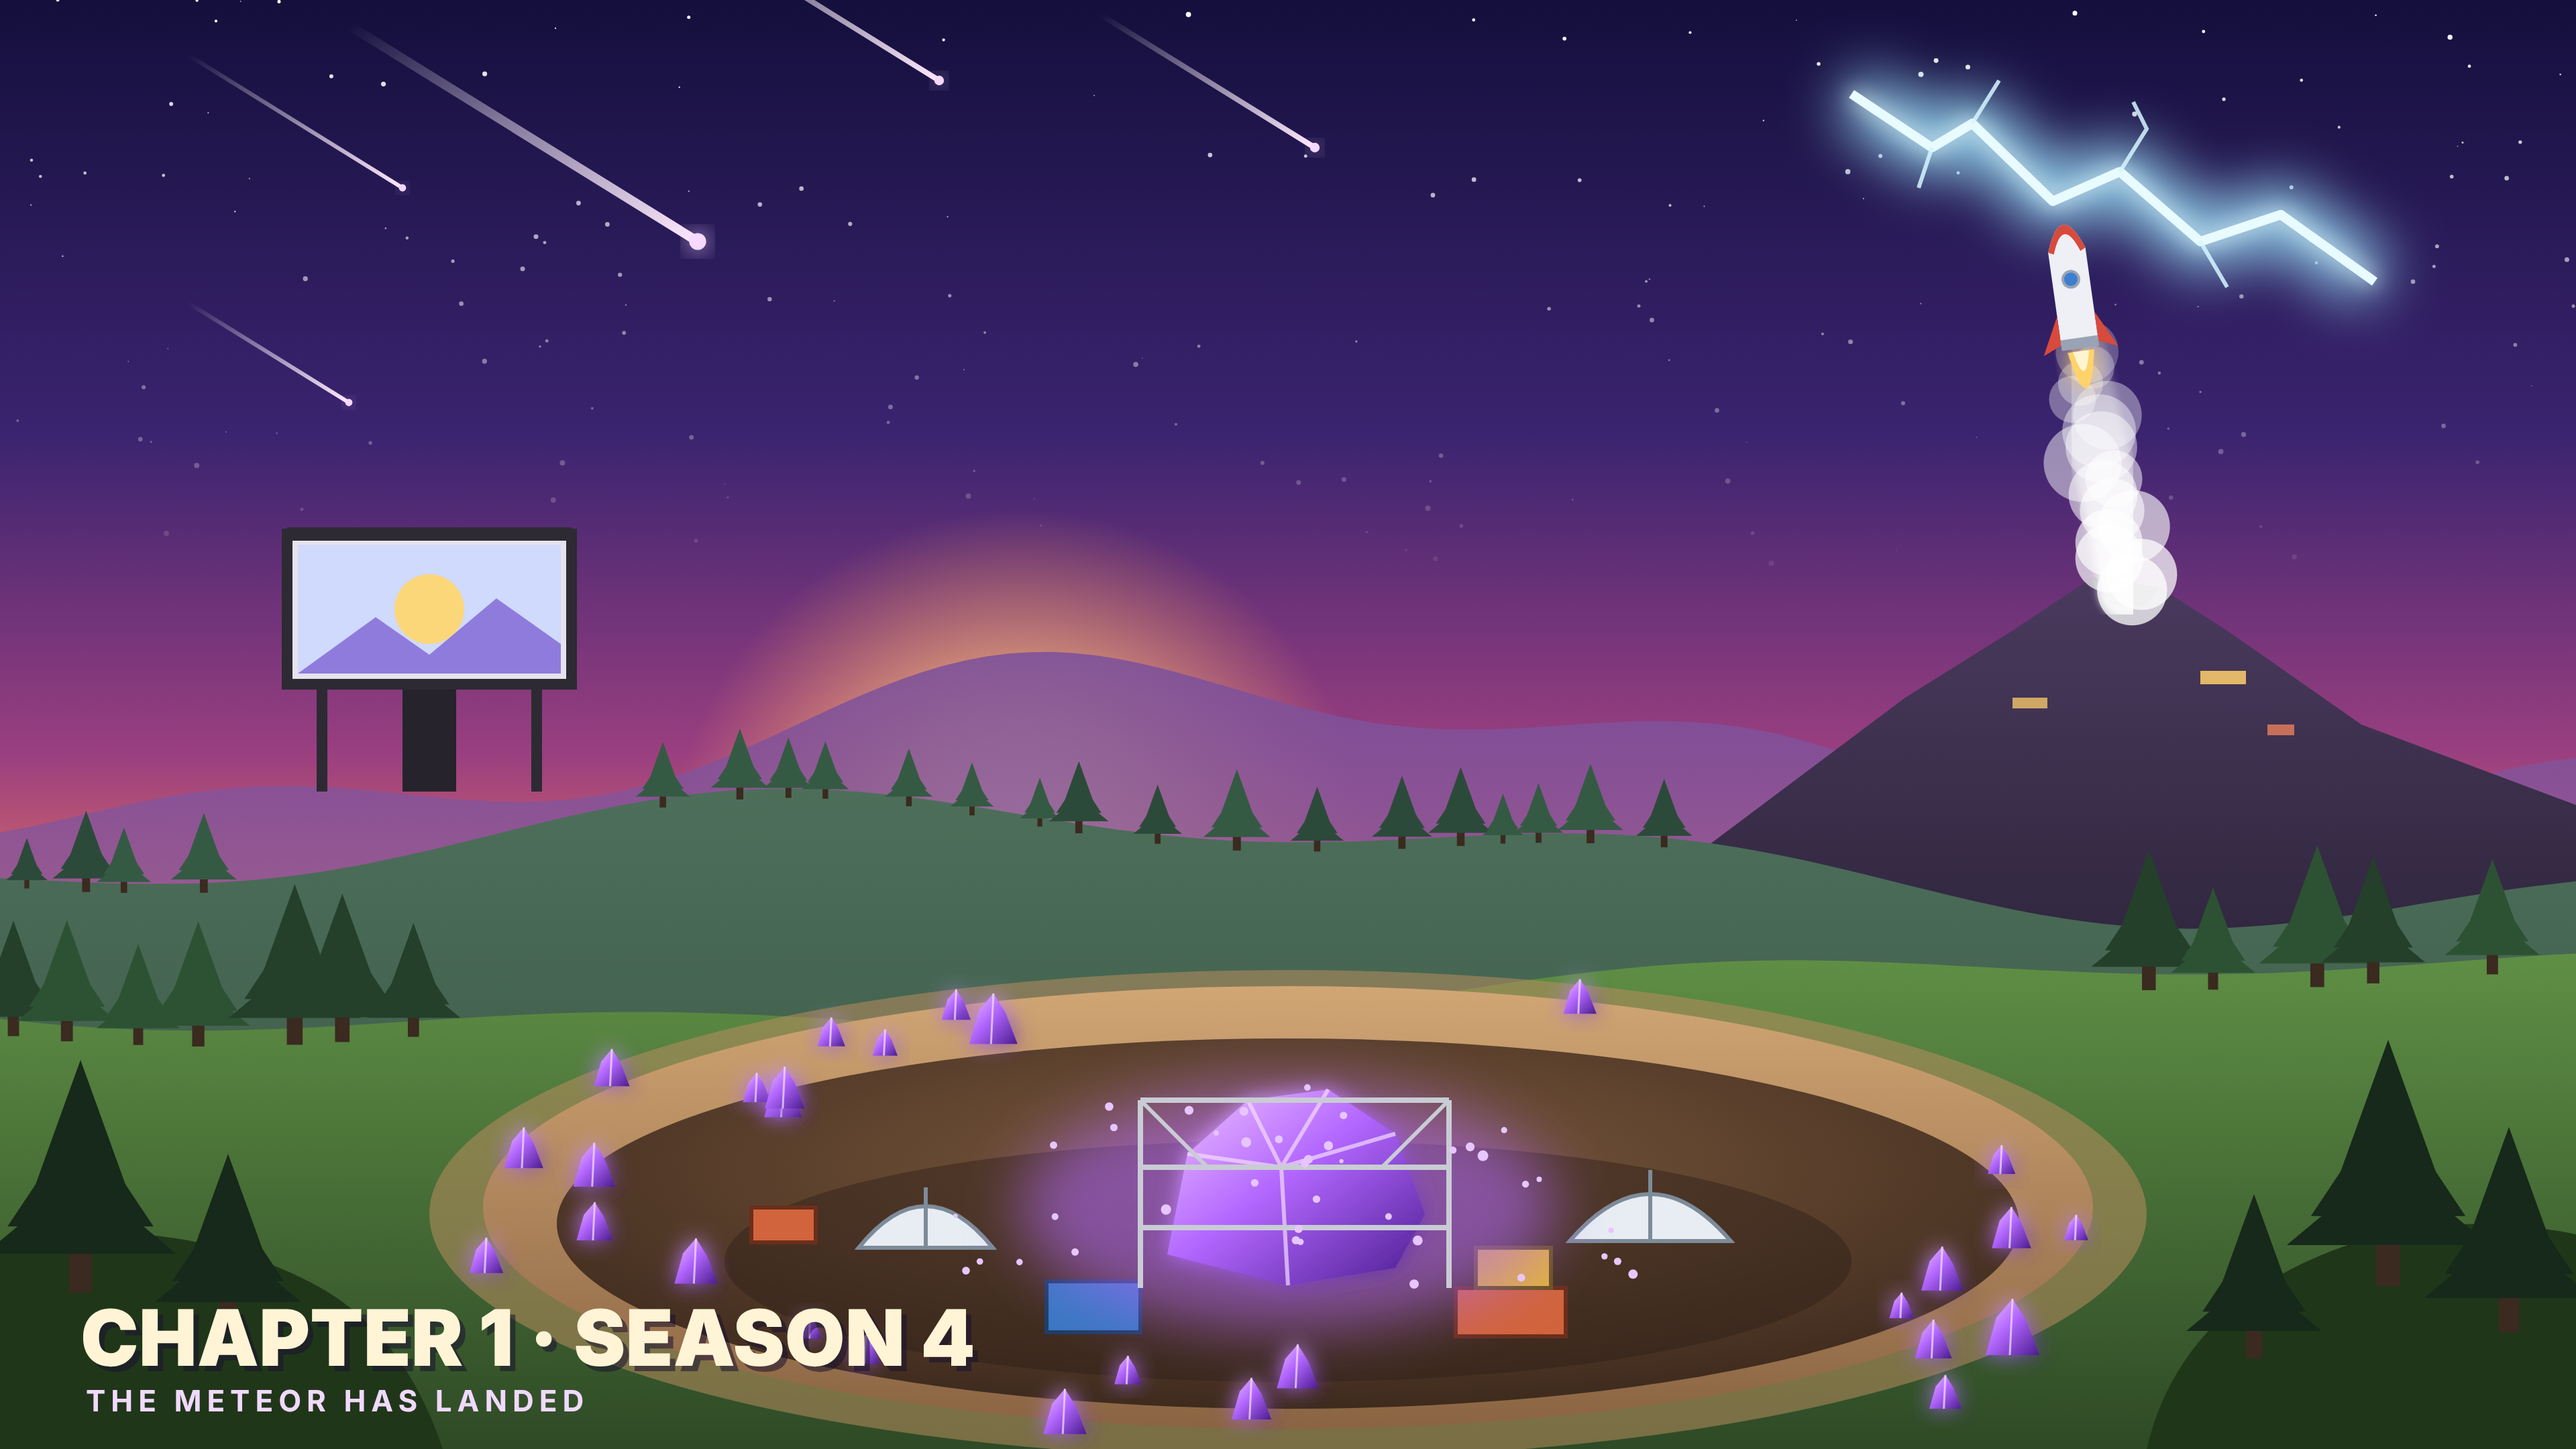
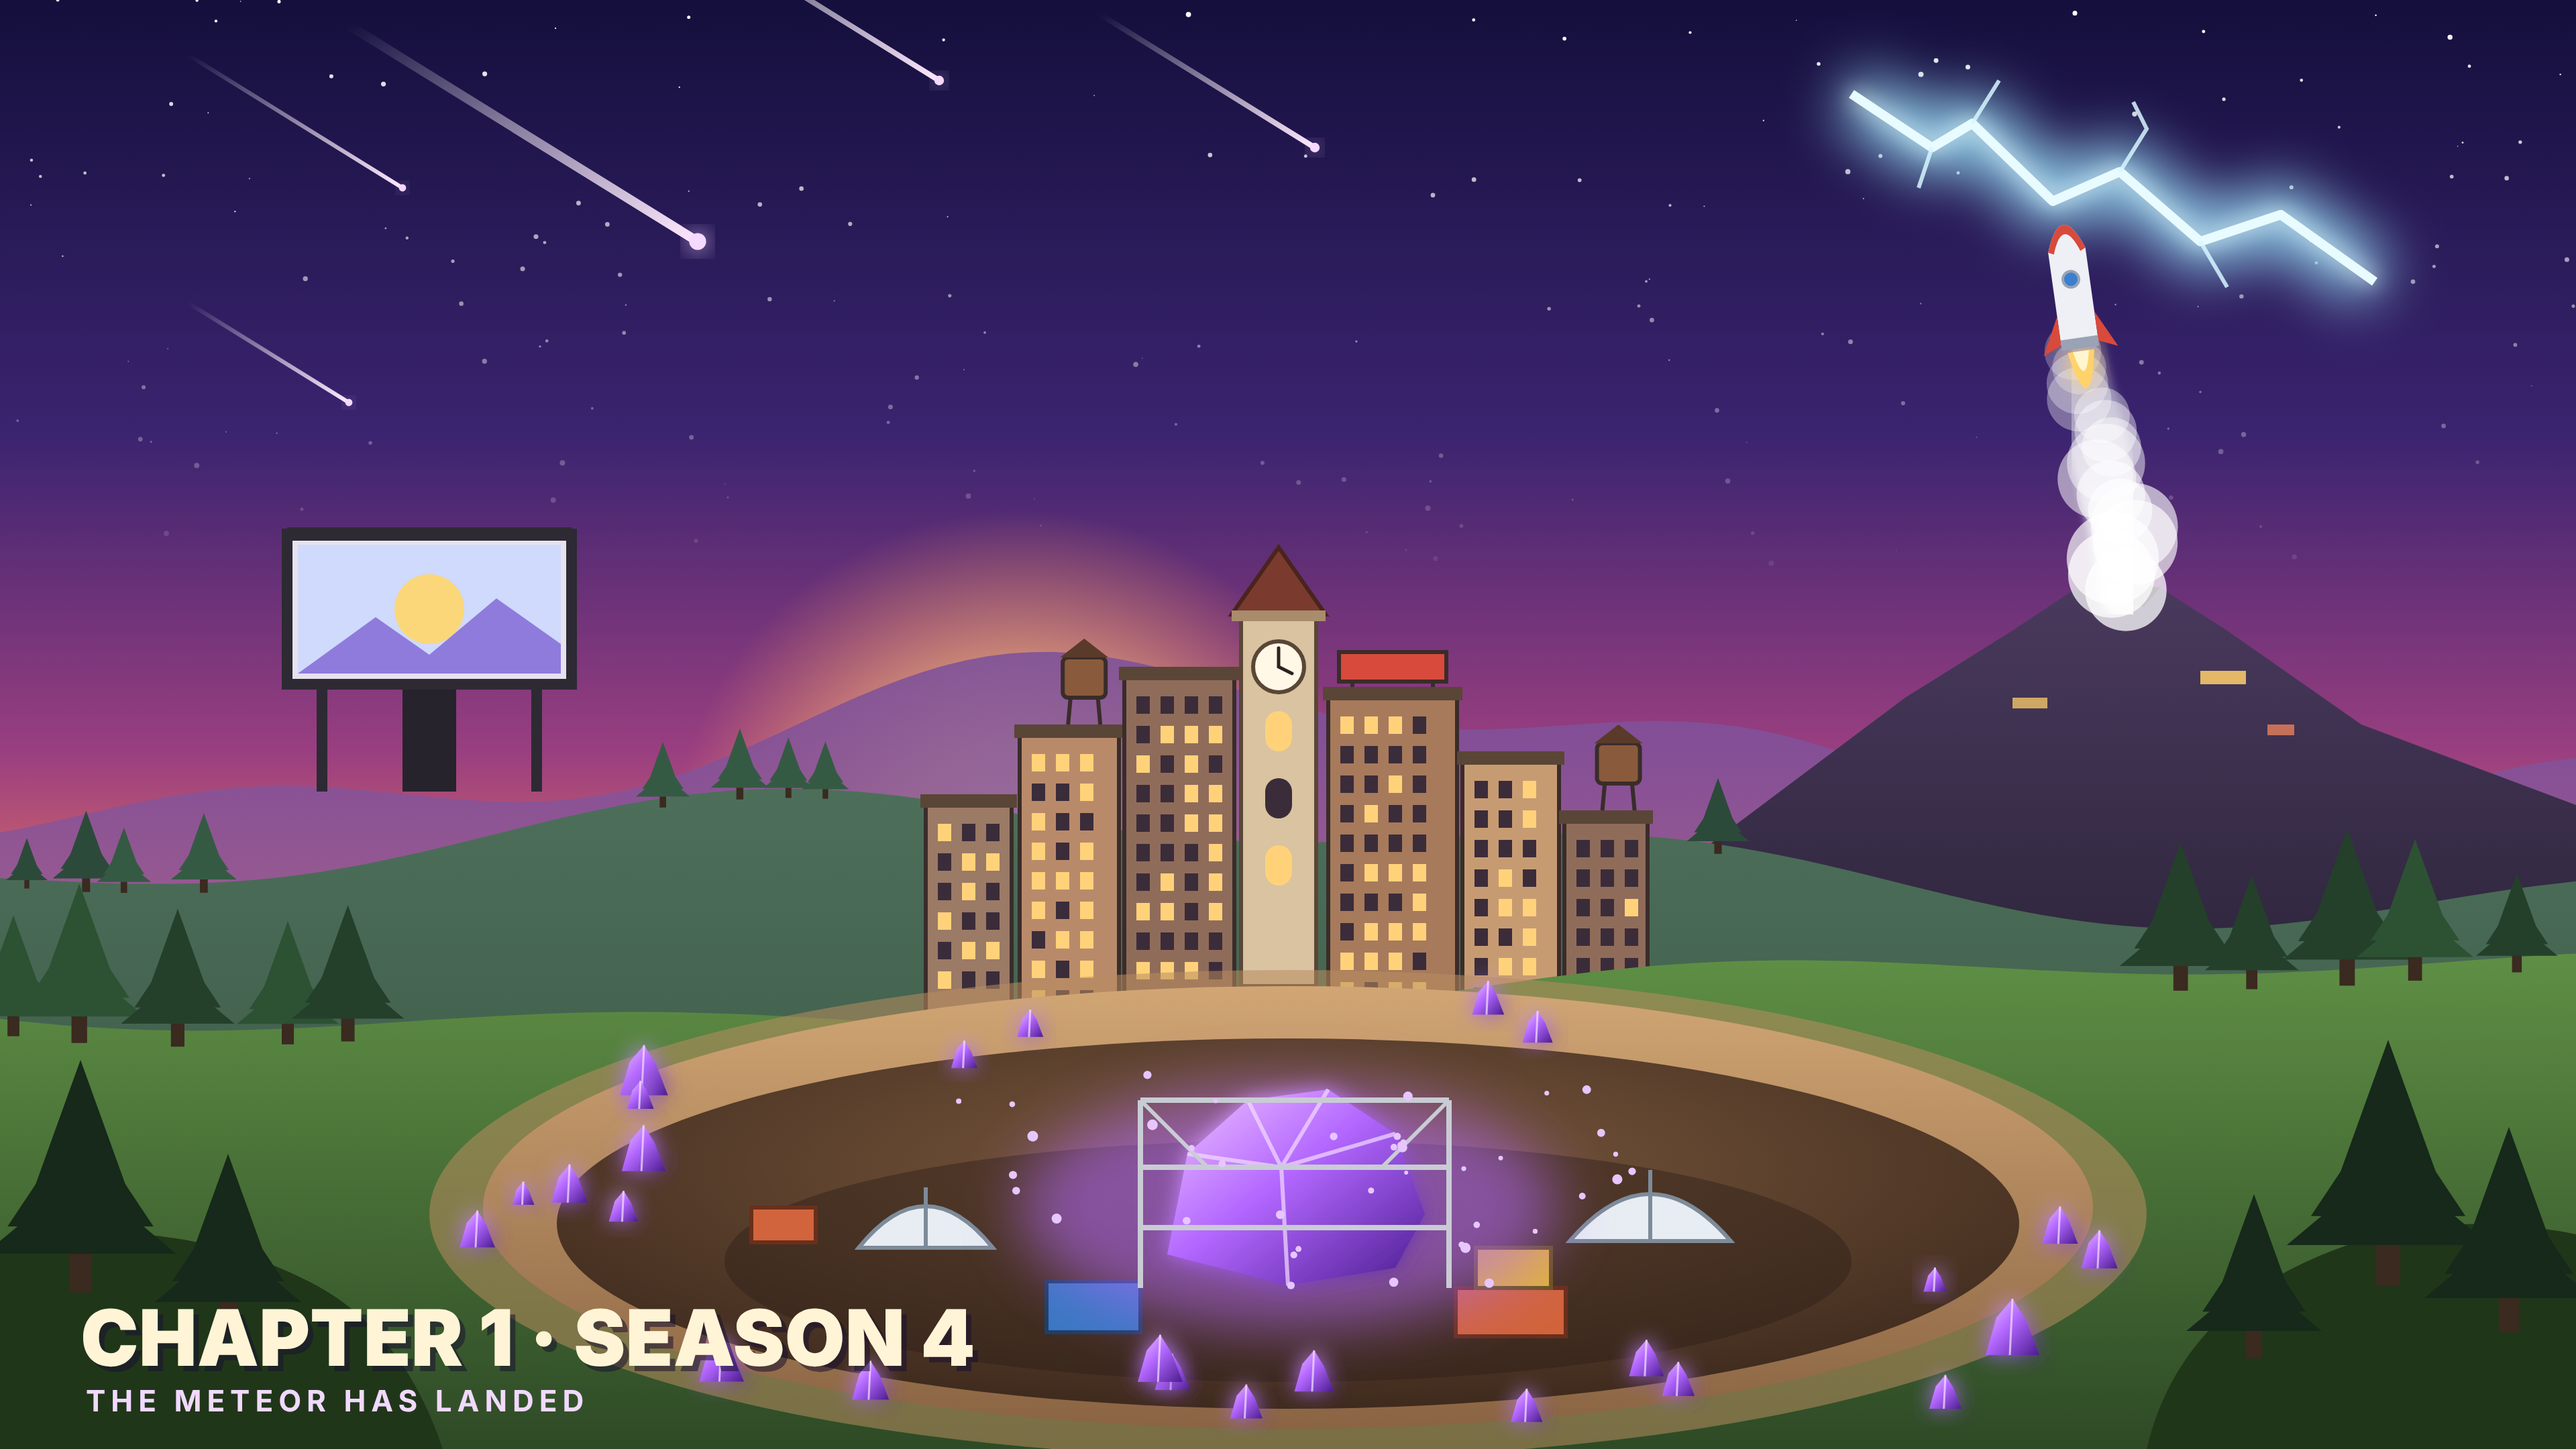
Add Tilted's towers and clock tower to the Season 4 landscape
Claude-Session: https://claude.ai/code/session_01LMytVQrKNyAfvcRp4ZWjkh

diff --git a/season4-landscape/landscape.html b/season4-landscape/landscape.html
@@ -119,6 +119,19 @@
   <path id="midRidge" fill="url(#mid)"/>
   <g id="midTrees"></g>
 
+  <!-- Tilted: the tall town on the hill -->
+  <g id="tilted"></g>
+  <g id="clockTower">
+    <rect x="925" y="455" width="56" height="280" fill="#d9c3a0" stroke="#5a4636" stroke-width="3"/>
+    <path d="M918 458 L953 408 L988 458 Z" fill="#7a3b2e" stroke="#4a241c" stroke-width="3"/>
+    <rect x="918" y="455" width="70" height="8" fill="#a88c6c"/>
+    <circle cx="953" cy="497" r="19" fill="#fff8e6" stroke="#5a4636" stroke-width="3"/>
+    <path d="M953 497 L953 483 M953 497 L963 502" stroke="#2c2220" stroke-width="2.5" stroke-linecap="round"/>
+    <rect x="943" y="530" width="20" height="30" rx="10" fill="#ffd27a"/>
+    <rect x="943" y="580" width="20" height="30" rx="10" fill="#3b2c3a"/>
+    <rect x="943" y="630" width="20" height="30" rx="10" fill="#ffd27a"/>
+  </g>
+
   <!-- Drive-in movie screen on the hill -->
   <g id="screen">
     <rect x="236" y="470" width="8" height="120" fill="#2d2a33"/>
@@ -237,7 +250,7 @@
   };
   for (let x = 20; x < 1920; x += 26 + rnd() * 40) {
     if (x > 200 && x < 440) continue;
-    if (x > 1300) continue;
+    if (x > 1300 || (x > 640 && x < 1260)) continue;
     const y = ridgeY(640, 38, .003, .009, 2.6, x) + 6;
     pine(x, y, 34 + rnd() * 26, rnd() > .5 ? '#2c4a3a' : '#355a43', $('midTrees'));
   }
@@ -248,6 +261,29 @@
   }
   [[60, 960, 170], [170, 990, 130], [1780, 955, 180], [1870, 990, 150], [1680, 1010, 120]]
     .forEach(([x, y, h]) => pine(x, y, h, '#16291a', $('fgTrees')));
+
+  // Tilted: a cluster of tall buildings with lit windows
+  const building = (x, w, top, col, roof) => {
+    const g = el('g', {}, $('tilted'));
+    el('rect', { x, y: top, width: w, height: 760 - top, fill: col, stroke: '#3a2c2a', 'stroke-width': 3 }, g);
+    el('rect', { x: x - 4, y: top - 8, width: w + 8, height: 10, fill: '#5a4636' }, g);
+    for (let wy = top + 14; wy < 740; wy += 22)
+      for (let wx = x + 9; wx + 10 <= x + w - 6; wx += 18)
+        el('rect', { x: wx, y: wy, width: 10, height: 13, fill: rnd() < .45 ? '#ffd27a' : '#3b2c3a' }, g);
+    if (roof === 'tank') {
+      const cx = x + w * .65;
+      el('path', { d: `M${cx - 12} ${top - 8} L${cx - 10} ${top - 30} M${cx + 12} ${top - 8} L${cx + 10} ${top - 30}`, stroke: '#3a2c2a', 'stroke-width': 3 }, g);
+      el('rect', { x: cx - 16, y: top - 58, width: 32, height: 30, rx: 4, fill: '#8a5a3c', stroke: '#3a2c2a', 'stroke-width': 3 }, g);
+      el('path', { d: `M${cx - 18} ${top - 58} L${cx} ${top - 72} L${cx + 18} ${top - 58} Z`, fill: '#5a3a28' }, g);
+    }
+    if (roof === 'sign') {
+      el('rect', { x: x + 8, y: top - 34, width: w - 16, height: 22, fill: '#d84a3c', stroke: '#3a2c2a', 'stroke-width': 3 }, g);
+      el('path', { d: `M${x + 18} ${top - 12} L${x + 18} ${top - 8} M${x + w - 18} ${top - 12} L${x + w - 18} ${top - 8}`, stroke: '#3a2c2a', 'stroke-width': 3 }, g);
+    }
+  };
+  [[690, 64, 600, '#9b7a66'], [760, 74, 548, '#b98a6a', 'tank'], [838, 82, 505, '#8f6c5a'],
+   [990, 96, 520, '#a77a5c', 'sign'], [1090, 72, 568, '#c79b72'], [1166, 62, 612, '#8f6c5a', 'tank']]
+    .forEach(b => building(...b));
 
   // Rocket smoke puffs
   for (let i = 0; i < 16; i++) {
